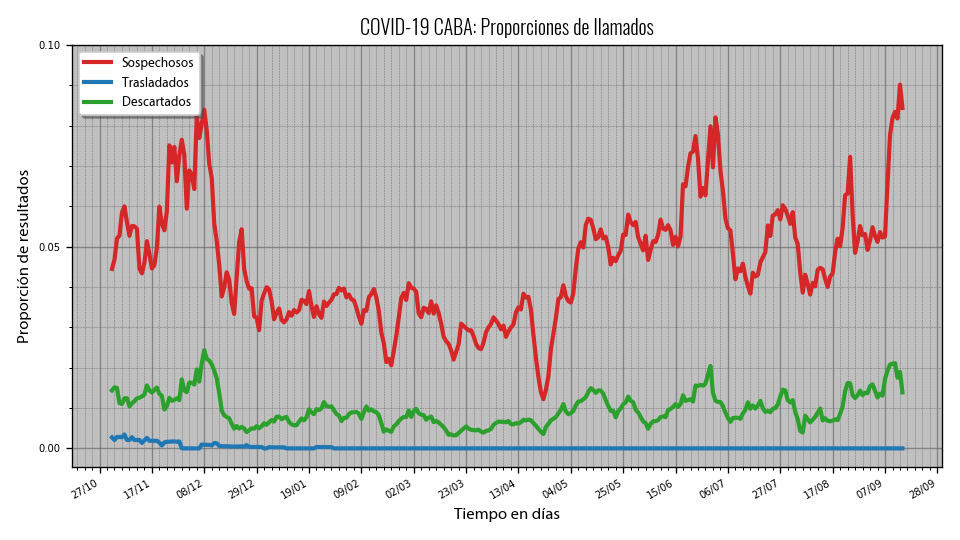
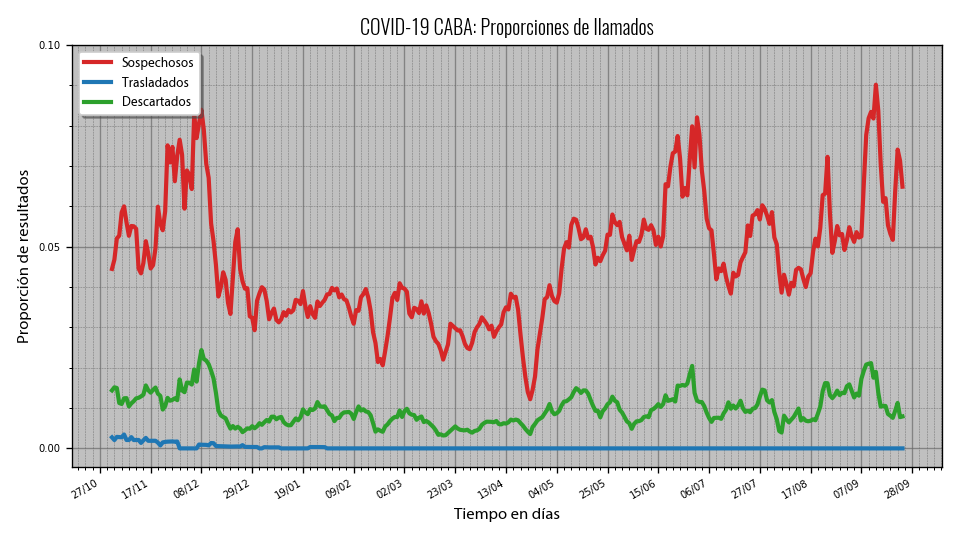
Updating charts...

Changed region(s): [[0.125, 0.0889, 0.9688, 0.9185], [0.125, 0.8889, 0.1562, 0.9185]]

diff --git a/chart_config.py b/chart_config.py
@@ -26,7 +26,7 @@ language = 1 #0 = english, 1 = spanish
 legend_text_size = 8
 plot_scale = "linear"
 start_date = "2020-11-01"
-end_date = "2021-09-16"
+end_date = "2021-09-27"
 week_interval = 3
 v_start_date = "2021-01-01"
 v_week_interval = 2
